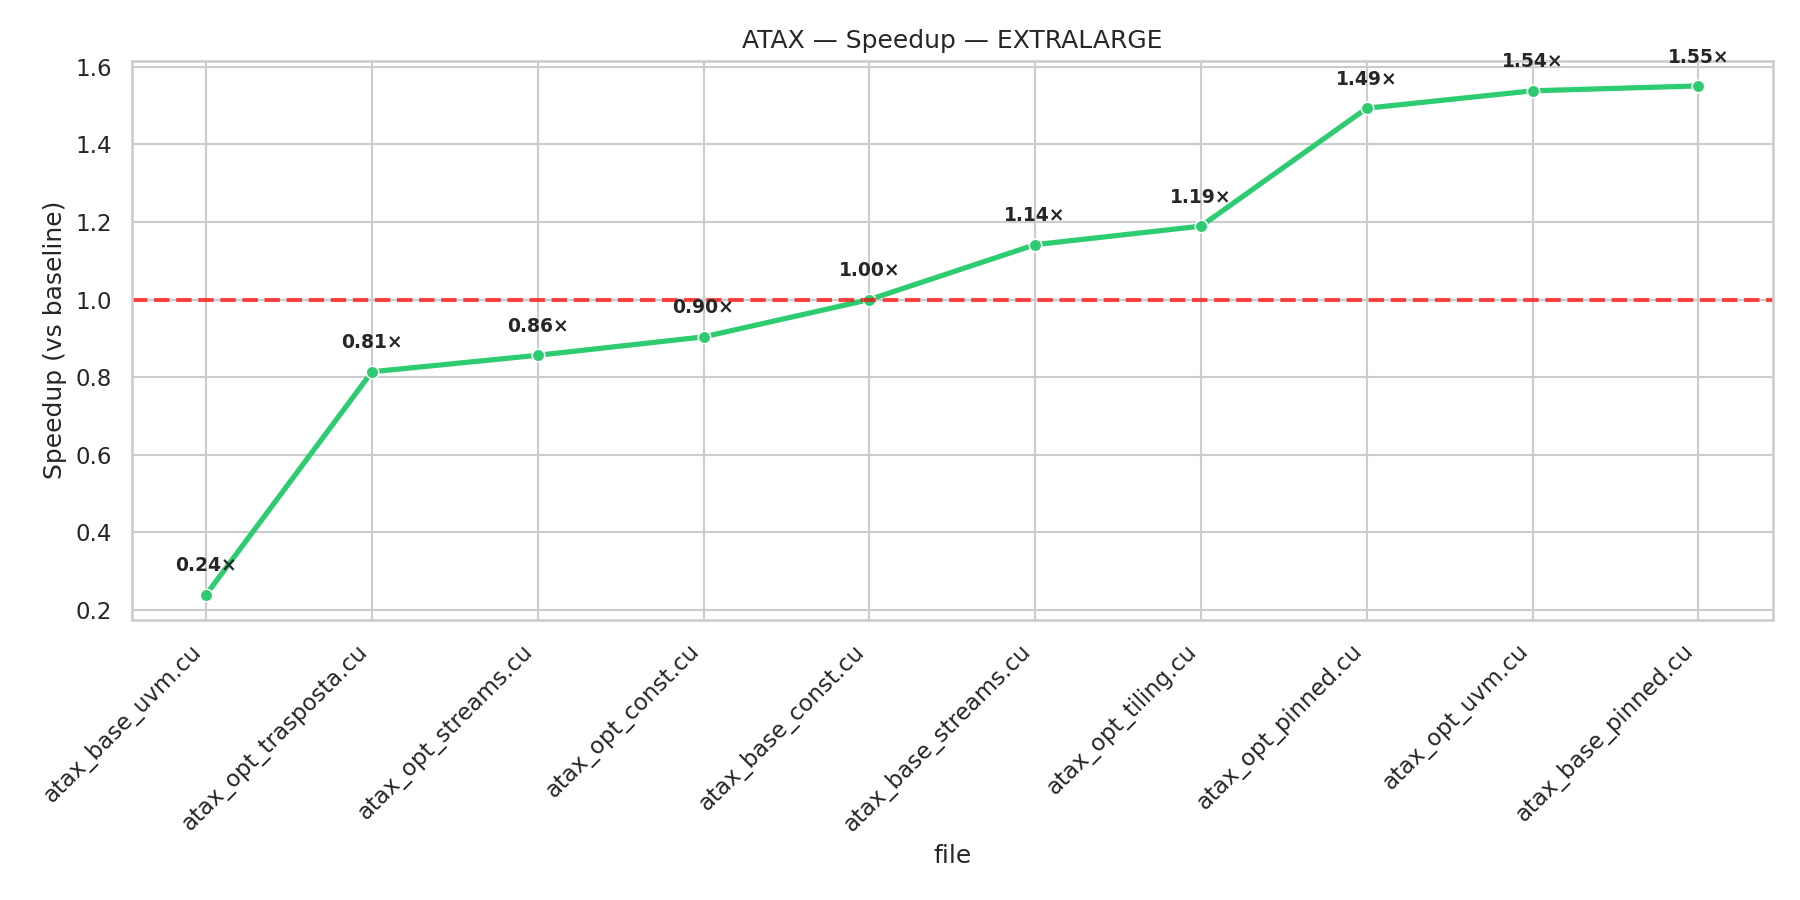
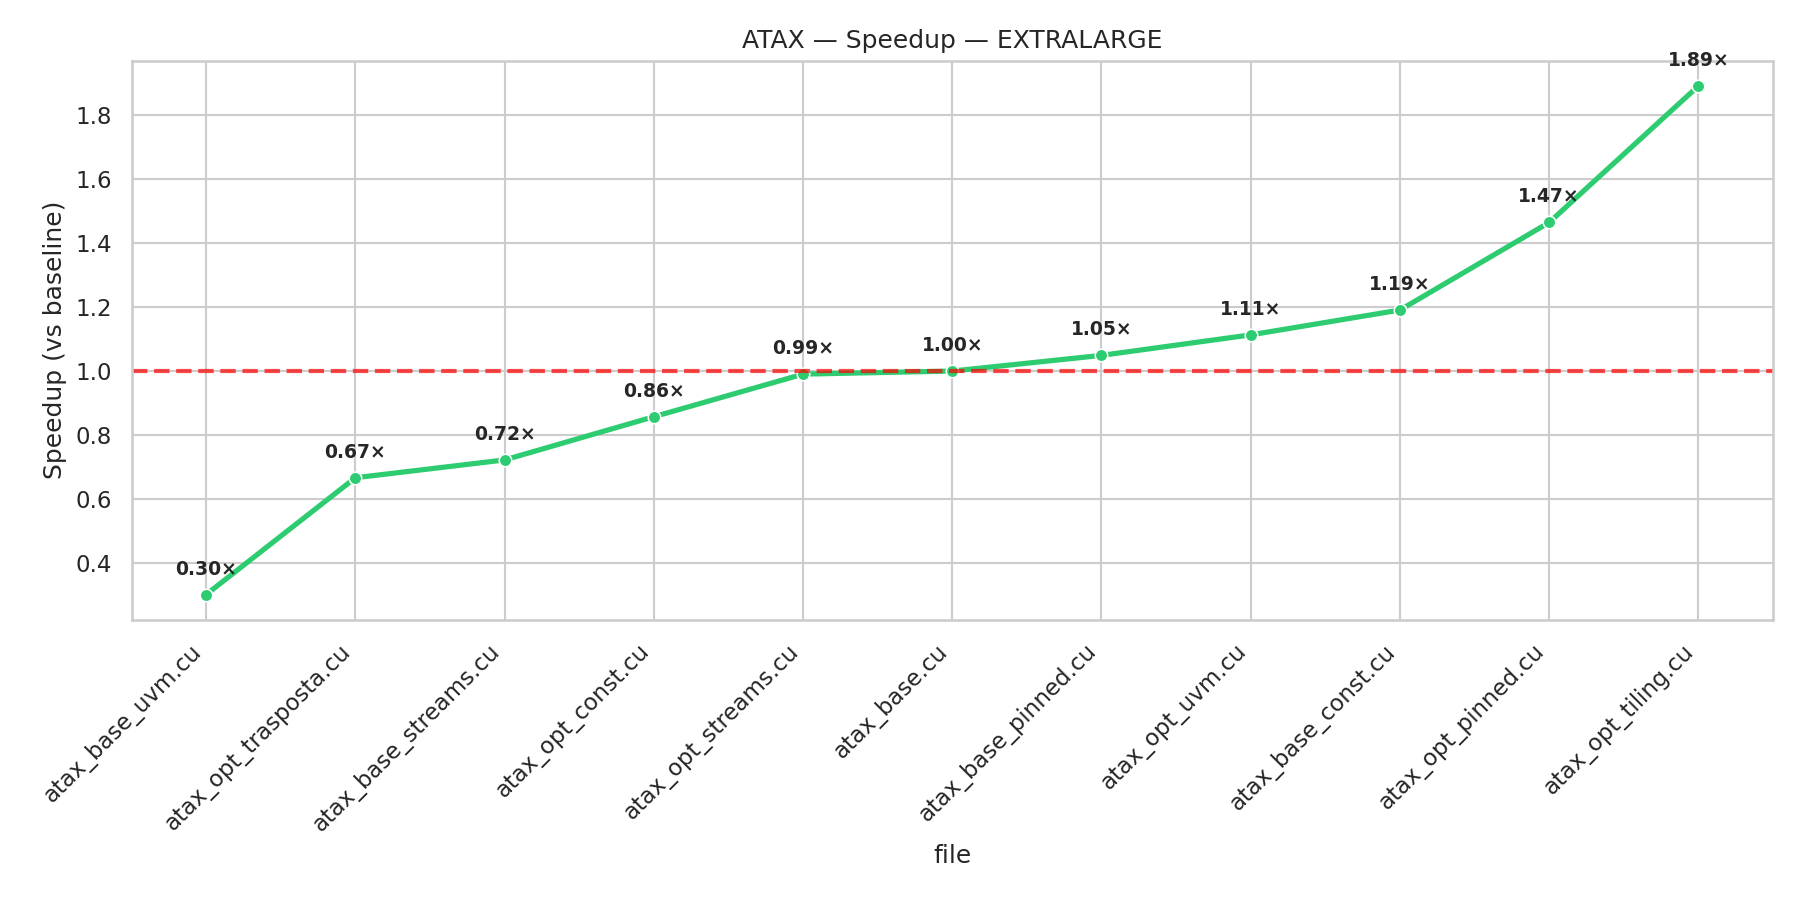
.

diff --git a/Assignment2/plot_atax.py b/Assignment2/plot_atax.py
@@ -13,7 +13,7 @@ PLOTS_DIR = Path("plots")
 DATASETS = ["MINI", "SMALL", "STANDARD", "LARGE", "EXTRALARGE"]
 
 # Baseline speedup: scegli qualsiasi kernel
-BASELINE_KERNEL = "atax_base_const.cu"
+BASELINE_KERNEL = "atax_base.cu"
 
 sns.set_theme(style="whitegrid", palette="husl")
 
